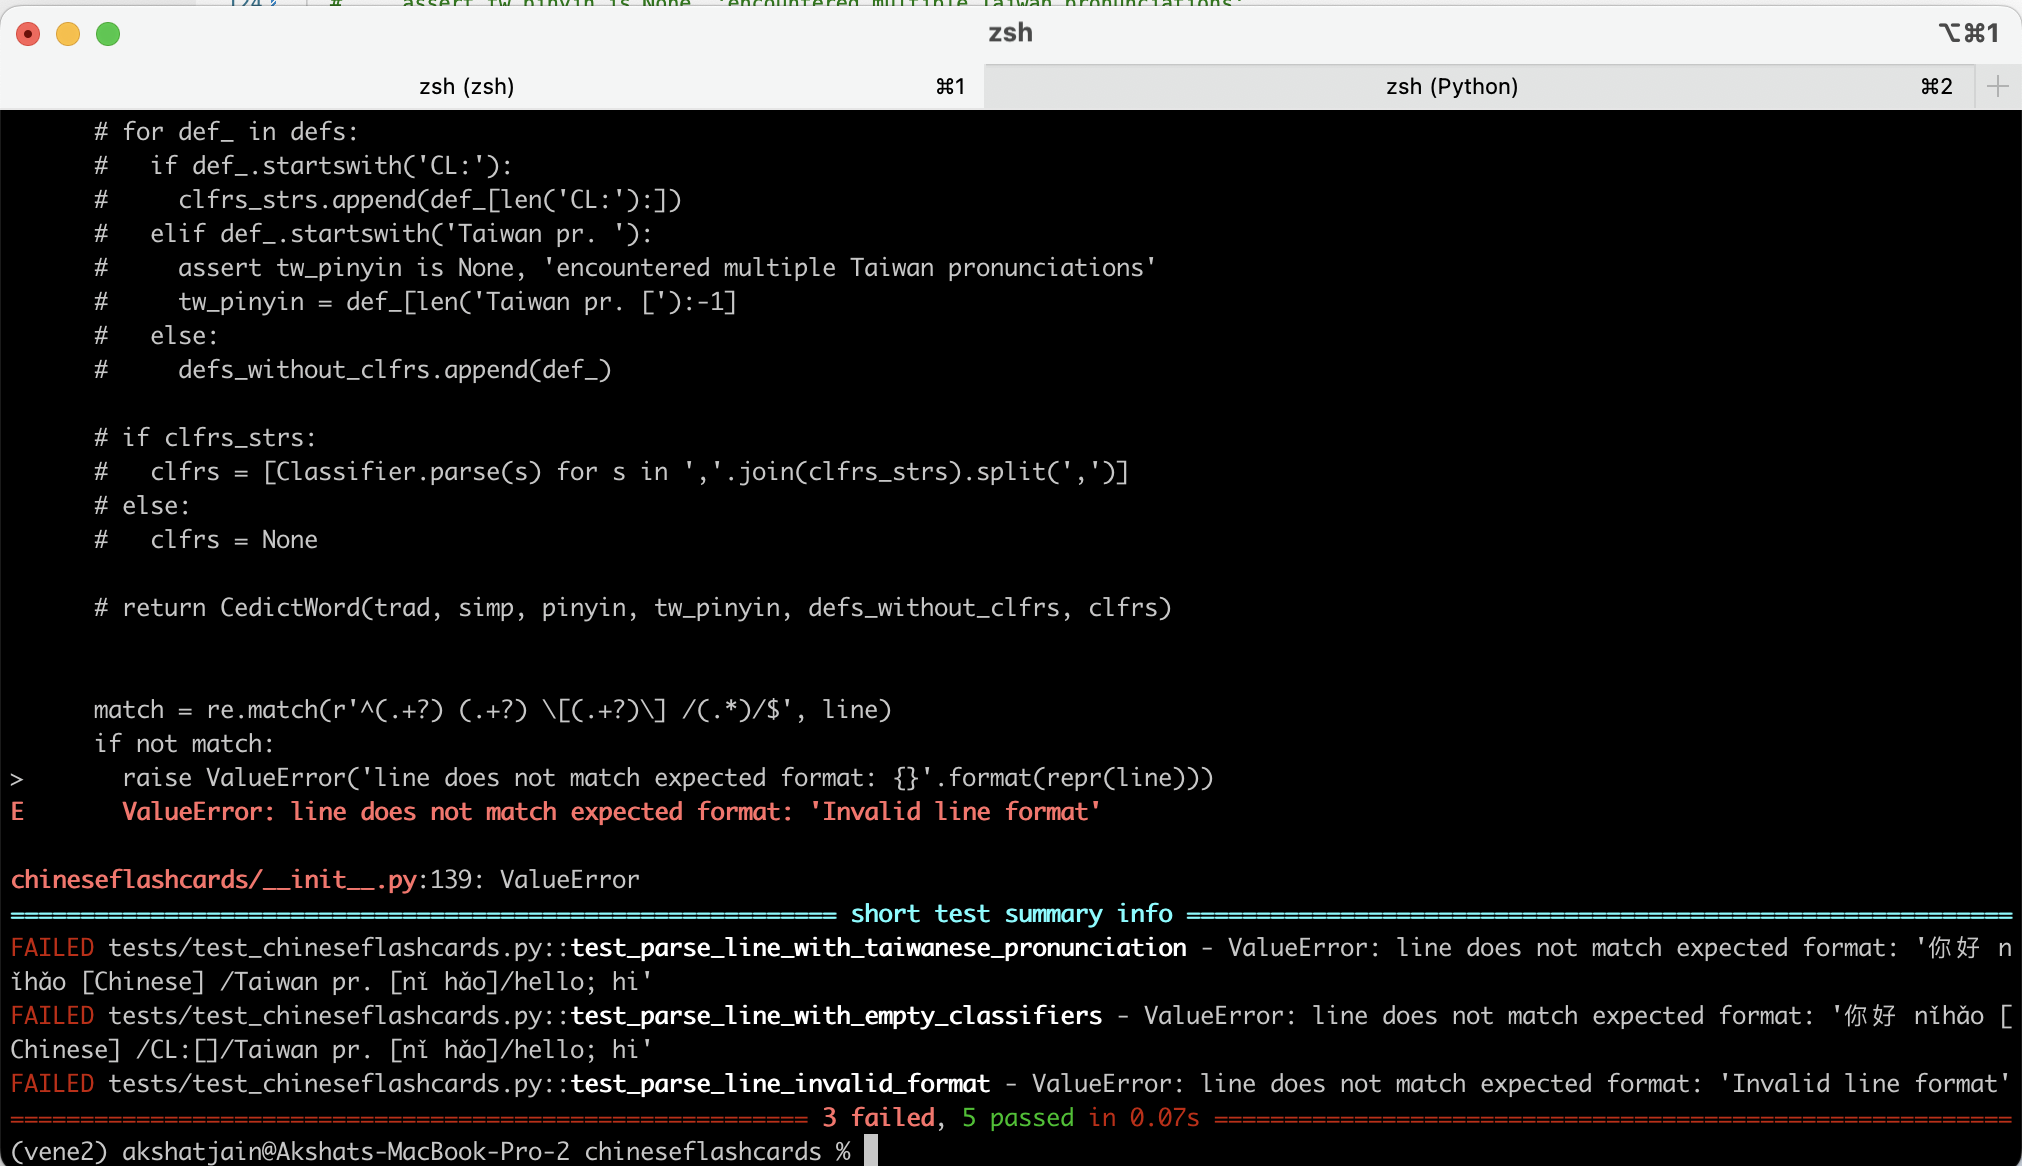
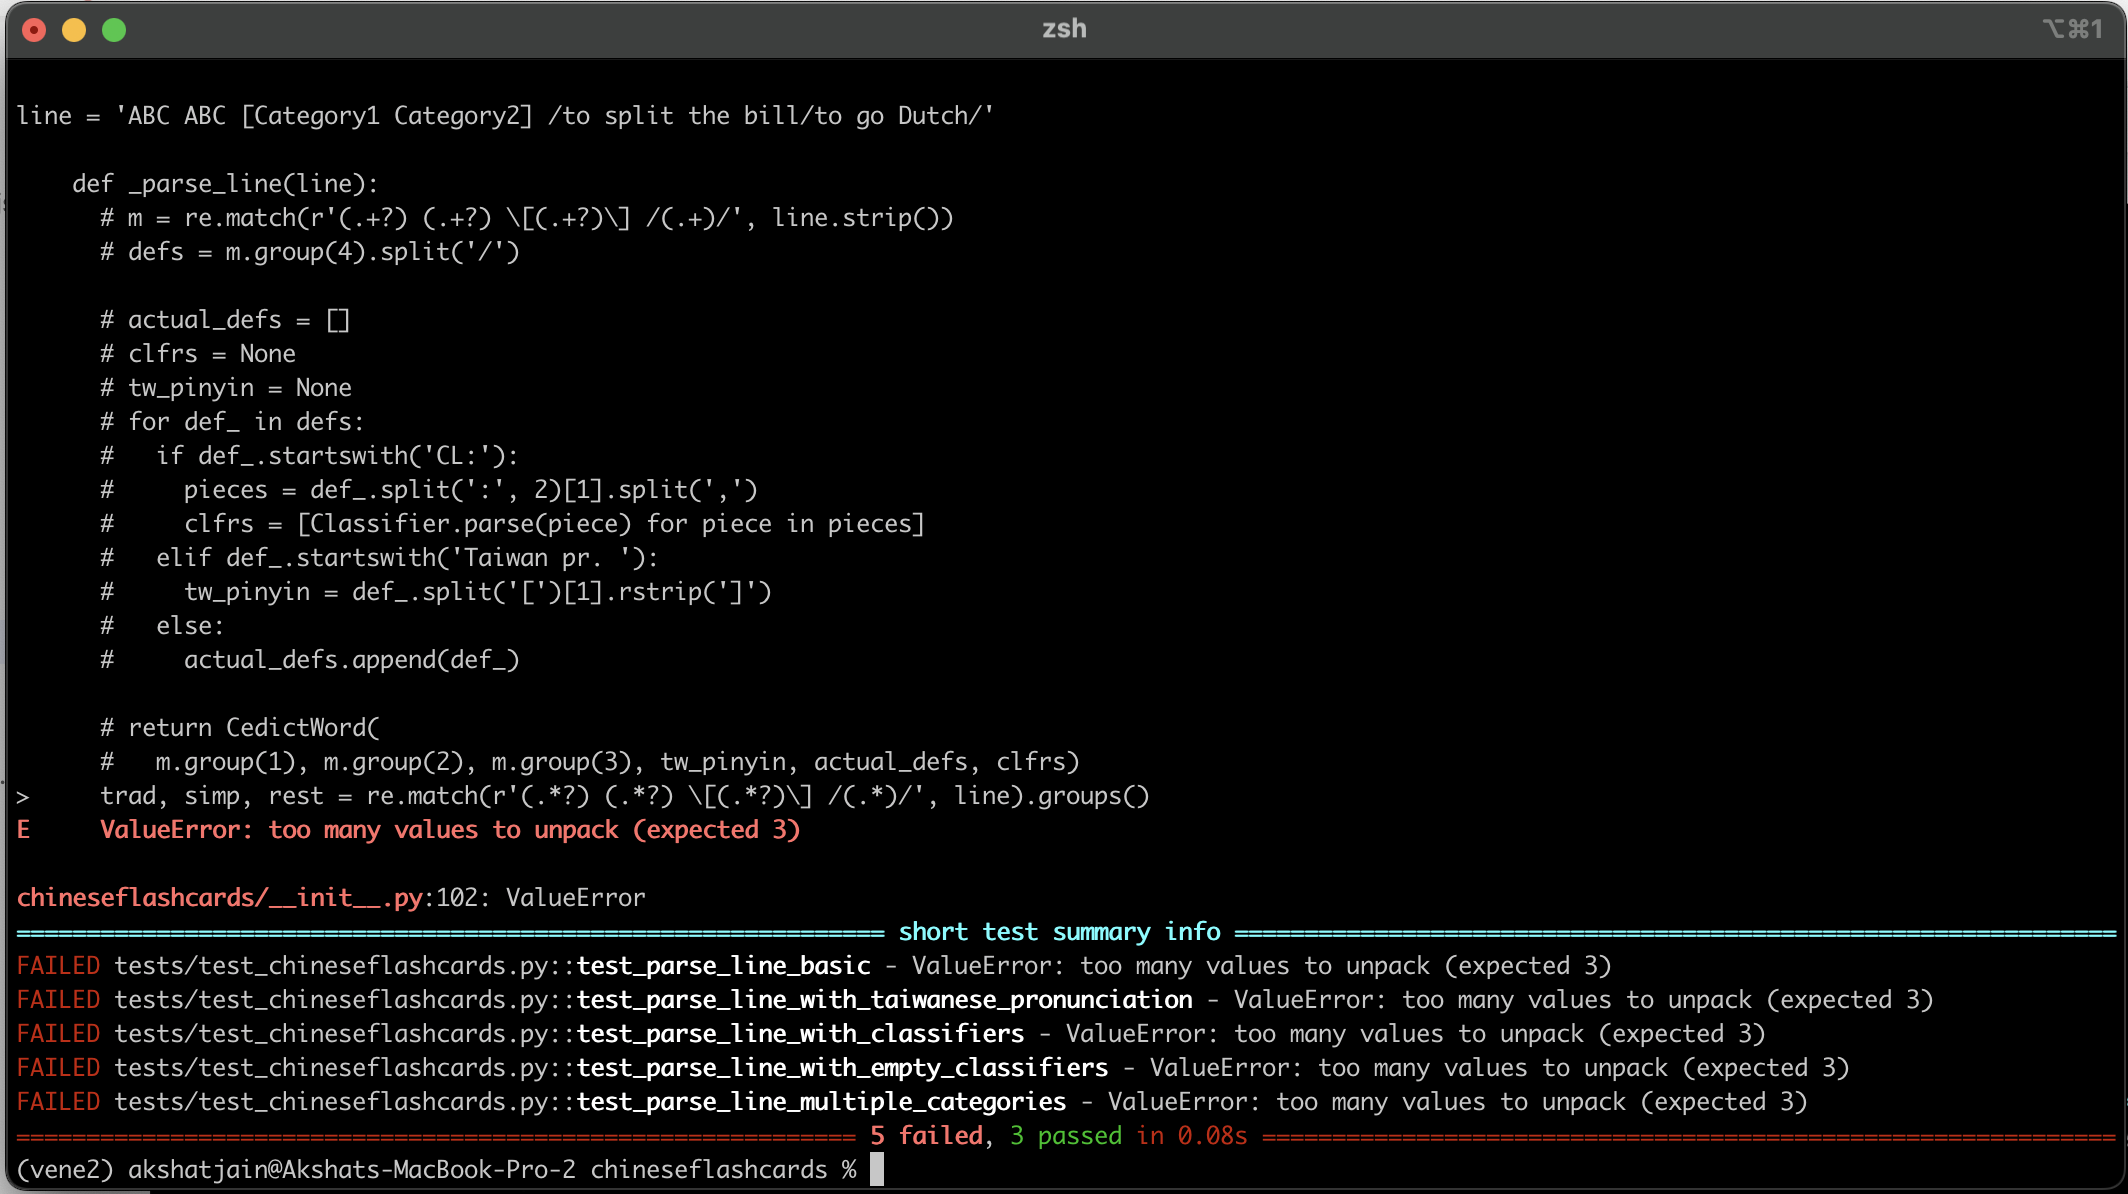
refactored prompt and updated features

diff --git a/chineseflashcards/features/feature_2/with_flawed_solution.py b/chineseflashcards/features/feature_2/with_flawed_solution.py
@@ -1,20 +1,25 @@
-  match = re.match(r'^(.+?) (.+?) \[(.+?)\] /(.*)/$', line)
-  if not match:
-    raise ValueError('line does not match expected format: {}'.format(repr(line)))
-
-  trad, simp, pinyin, defs_str = match.groups()
-
+```
+  trad, simp, rest = re.match(r'(.*?) (.*?) \[(.*?)\] /(.*)/', line).groups()
+  if trad == simp:
+    simp = None
+  pinyin = rest.split(' ')[0]
   defs = []
   clfrs = []
-  tw_pinyin = None
 
-  for piece in defs_str.split('/'):
-    if piece.startswith('CL:'):
-      for clfr_str in piece[len('CL:'):].split(','):
-        clfrs.append(Classifier.parse(clfr_str.strip()))
-    elif piece.startswith('Taiwan pr.'):
-      tw_pinyin = piece[len('Taiwan pr. '):][1:-1]
+  for part in rest.split('/')[1:]:
+    if part.startswith('CL:'):
+      clfrs = [Classifier.parse(s.strip()) for s in part[3:].split(',')]
+    elif part.startswith('Taiwan pr.'):
+      tw_pinyin = part[len('Taiwan pr. ['):-1]
     else:
-      defs.append(piece.strip())
+      defs.append(part)
 
-  return CedictWord(trad, simp, pinyin, tw_pinyin, defs, clfrs or None)
+  return CedictWord(
+    trad=trad,
+    simp=simp,
+    pinyin=pinyin,
+    tw_pinyin=tw_pinyin if 'tw_pinyin' in locals() else None,
+    defs=defs,
+    clfrs=clfrs if clfrs else None,
+  )
+```

diff --git a/chineseflashcards/features/feature_2/with_hole.py b/chineseflashcards/features/feature_2/with_hole.py
@@ -101,13 +101,7 @@ def _parse_line(line):
     - `line` (str): The input line of text to be parsed. It should adhere to the format described above.
 
     Returns:
-    - `CedictWord`: An instance of the `CedictWord` class, initialized with the following attributes:
-        - `trad` (str): The traditional form of the term from the line (first capture group).
-        - `simp` (str): The simplified form of the term from the line (second capture group).
-        - `pinyin` (str): The pinyin transcription from the line (third capture group).
-        - `tw_pinyin` (str or None): The Taiwanese pronunciation if present, otherwise `None`.
-        - `defs` (list of str): A list of standard definitions extracted from the portion of the line after the slashes.
-        - `clfrs` (list of Classifier or None): A list of `Classifier` objects parsed from the definitions, if present. If no classifiers are found, this will be `None`.
+    - `CedictWord`: An instance of the `CedictWord` class
   """
   $PlaceHolder$
 

diff --git a/chineseflashcards/features/feature_2/with_golden_solution.py b/chineseflashcards/features/feature_2/with_golden_solution.py
@@ -1,3 +1,4 @@
+```
   m = re.match(r'(.+?) (.+?) \[(.+?)\] /(.+)/', line.strip())
   defs = m.group(4).split('/')
 
@@ -15,3 +16,4 @@
 
   return CedictWord(
     m.group(1), m.group(2), m.group(3), tw_pinyin, actual_defs, clfrs)
+```
